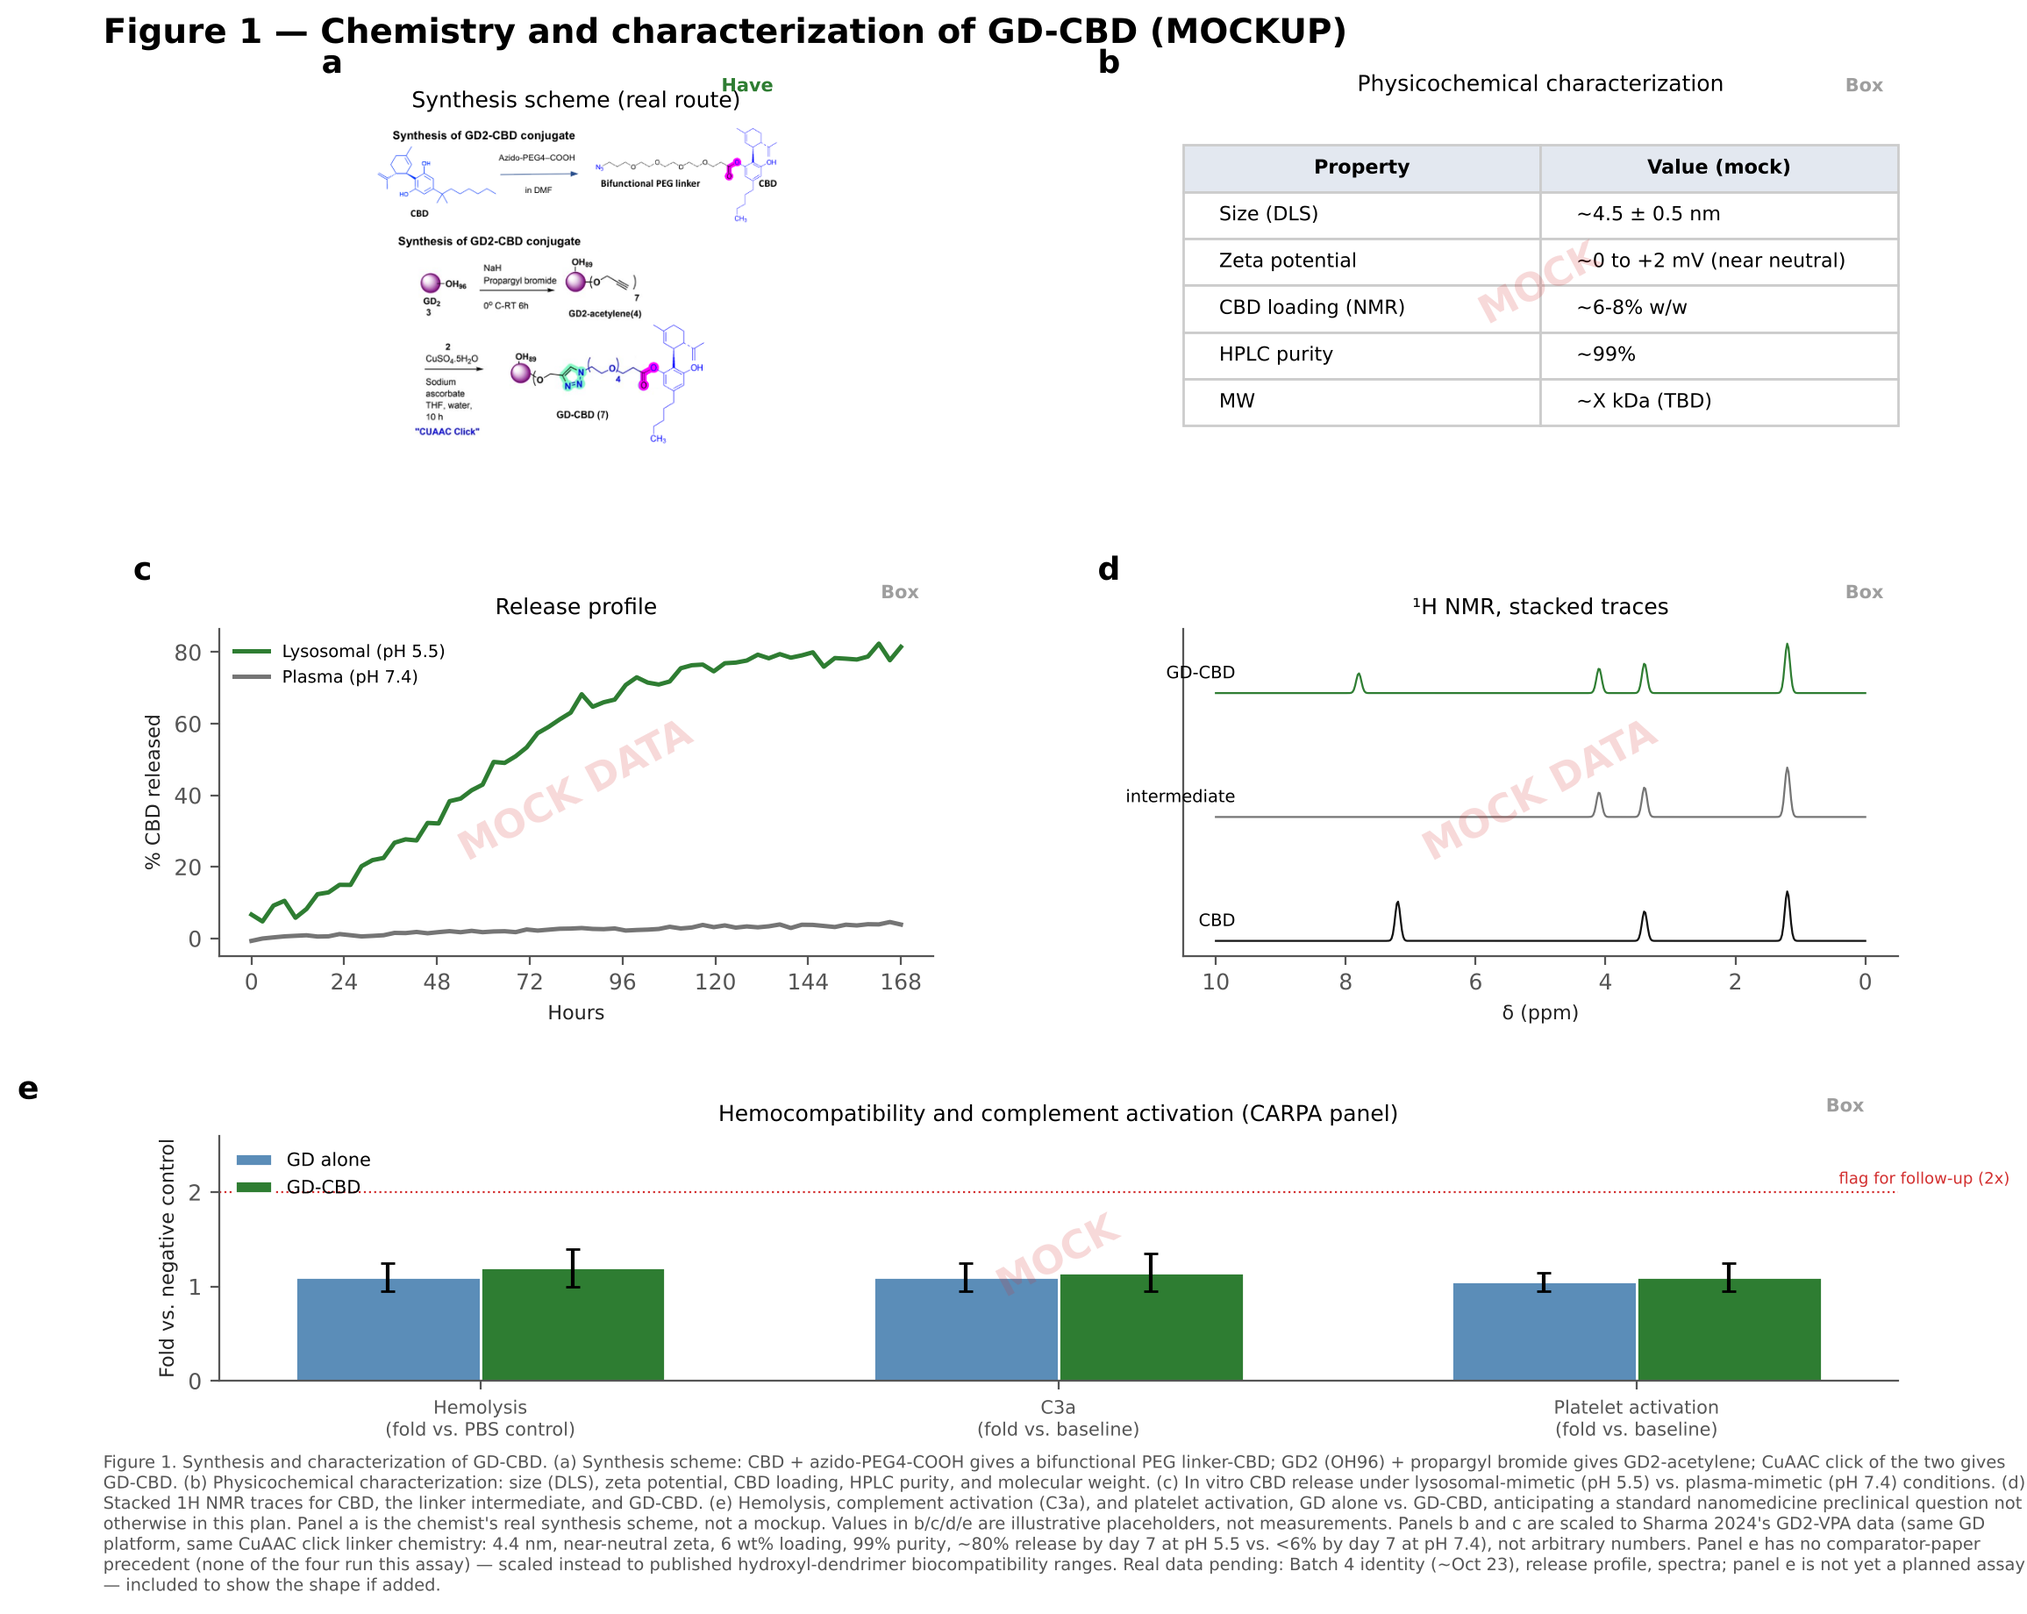
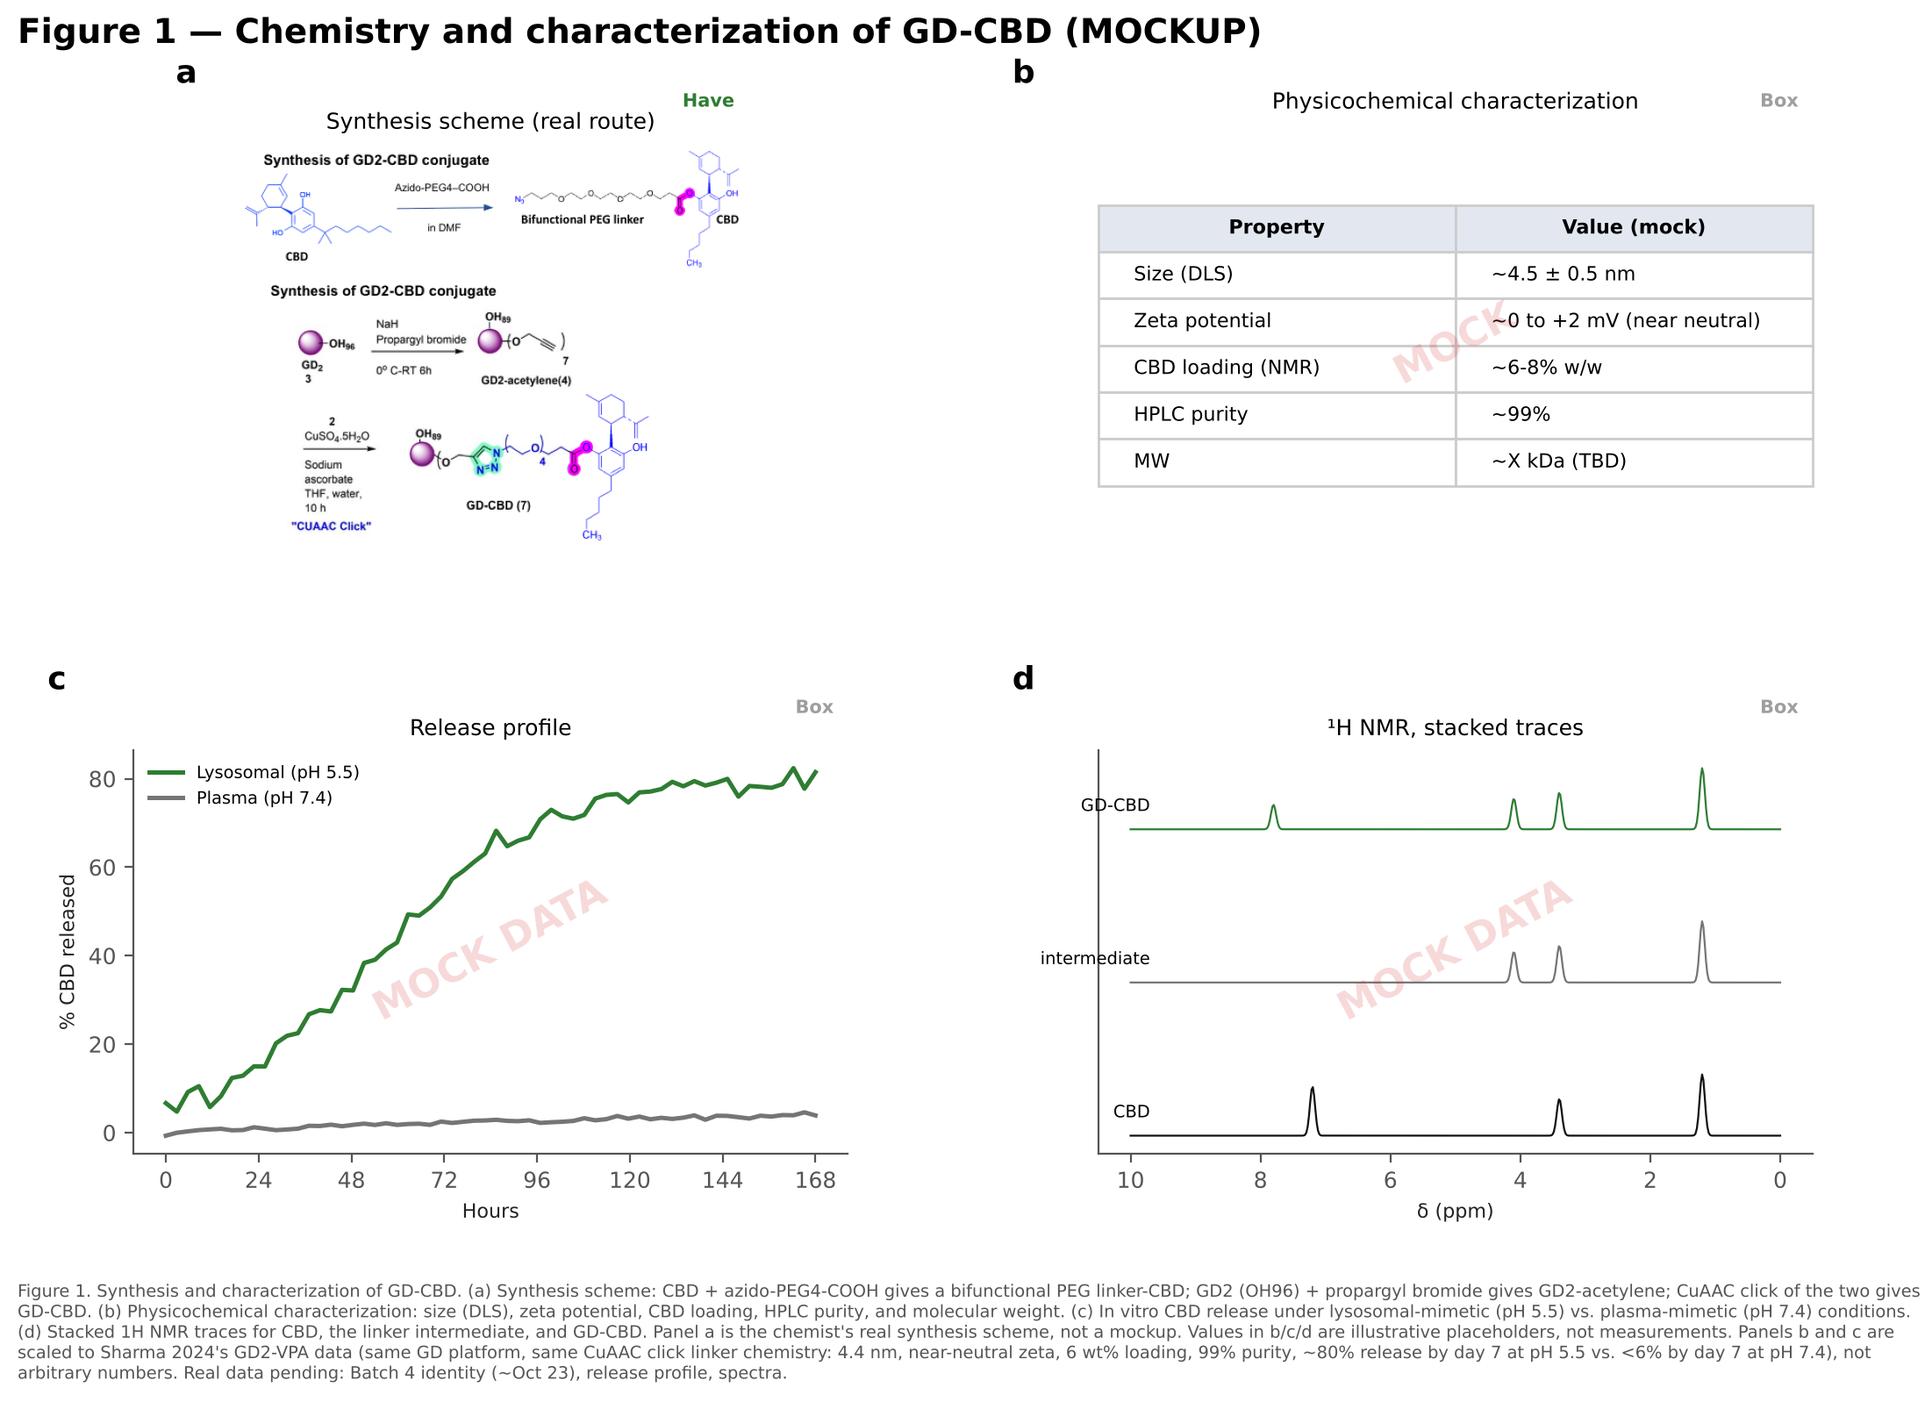
Cut Figure 5 and Figure 1e; rebuild Figure 6 around the real design
Three of the four figure decisions from this session's integration-plan
walkthrough:

- Figure 5 (cytokines across pain + epilepsy): cut. No counterpart in
  the 2026-11-02 PI session - cytokines came up as the in vitro efficacy
  readout (one MSD plate, one species), not a standalone cross-indication
  marker figure. build_fig5_mock.py kept as historical record (marked
  superseded, do not regenerate); fig5_box_layout.png removed.
- Figure 1e (hemocompatibility/CARPA): cut. Never discussed on 2026-11-02,
  this repo's own anticipatory addition, confirmed by the user rather
  than cut on inference. Figure 1 reflows to its original 4-panel 2x2.
- Figure 6 (biodistribution): rebuilt from scratch around the real
  settled design. Compound is GD-Cy5 (dendrimer alone), not Cy5-GD-CBD -
  the paper makes no CBD-localization claim. Material is existing
  flank-incision cryosections, not a new dosing study; no IVIS; no
  quantification ("just show like an image... that's good enough").
  Panel a (design) is real and status "Have"; panels b/c are schematic
  placeholders for real confocal images not yet provided to this repo -
  whether the n=3 sections and negative control are actually confirmed
  in hand is logged as an open item, not assumed.

Claude-Session: https://claude.ai/code/session_01QzWRSRZ9CNkGodGiMwM5wp

diff --git a/figures/mockups/build_fig_bio_mock.py b/figures/mockups/build_fig_bio_mock.py
@@ -1,76 +1,75 @@
-import numpy as np
+"""
+Figure 6 (biodistribution) — REBUILT 2026-11-03 per the 2026-11-02 PI working session.
+
+The old version (build around a new Cy5-GD-CBD dosing study: QC gate, n=3+2,
+ipsi/contra fluorescence quantification, a "quantified uptake" bar chart) no
+longer matches what was actually decided. Settled at the meeting instead:
+
+- Compound is GD-Cy5 (dendrimer alone, not the CBD conjugate) - "This is not
+  GD-CBD-Cy5." The paper is not making a CBD-localization claim, only a
+  dendrimer-localization one.
+- Material is EXISTING flank-incision cryosections already in hand, not a new
+  dosing study. "We're going to just show that and say it's getting into the
+  DRG neurons, DRG glia. That's all he looked at." No new animals, no IVIS
+  ("we're struggling with IVIS, let's take that out").
+- No quantification. "Don't try to quantify or do too much, just show like an
+  image and say it's more, it's less, that's good enough."
+- A no-dendrimer negative control is wanted alongside the positive images.
+- n=3 is the target ("we need to make sure we have N of 3 of the flank
+  incision model... for GD-Cy5"), but whether the sections/negative control
+  are actually confirmed in hand (vs. needing to be located) is an open
+  question - see Open items in the main plan doc. Panel a's design is real
+  and settled; panels b/c are schematic placeholders for real images that
+  have not been provided to this repo.
+"""
 import matplotlib.pyplot as plt
 import matplotlib.patches as mpatches
 from matplotlib.gridspec import GridSpec
-from mock_helpers import watermark, status_tag, panel_letter, empty_box, COLOR, RNG
+from mock_helpers import watermark, status_tag, panel_letter, empty_box
 
-fig = plt.figure(figsize=(11, 7))
-fig.suptitle("Figure 6 — Biodistribution of Cy5-GD-CBD (MOCKUP)", fontsize=13.5, fontweight="bold", x=0.02, ha="left", y=0.98)
-gs = GridSpec(2, 2, figure=fig, hspace=0.4, wspace=0.3, top=0.88, bottom=0.16, left=0.08, right=0.95)
+fig = plt.figure(figsize=(11, 5.2))
+fig.suptitle("Figure 6 — Biodistribution: GD-Cy5 localization, flank-incision model (MOCKUP)", fontsize=13, fontweight="bold", x=0.02, ha="left", y=0.98)
+gs = GridSpec(1, 3, figure=fig, wspace=0.35, top=0.72, bottom=0.22, left=0.05, right=0.97)
 
-# a: schematic - real design, Have
+# a: schematic - real design, settled 2026-11-02
 ax_a = fig.add_subplot(gs[0, 0])
-empty_box(ax_a, "Study design", "Injured + Cy5-GD-CBD (n=3, 24h) vs injured + vehicle (n=2)\nTissue fluorescence + confocal, paired ipsi/contra", "Have")
+empty_box(ax_a, "Study design", "Existing GD-Cy5 flank-incision cryosections (n=3) +\nno-dendrimer negative control. Localization only,\nno new dosing study, no IVIS.", "Have")
 panel_letter(ax_a, "a")
 
-# b: tissue fluorescence, ipsi vs contra - mock, paired lines
-# Ipsi/contra ratio set to ~6x, not the platform's own reported 8-14x (IV dendrimer vs.
-# contralateral brain tissue in a tumor model, same activated-cell targeting mechanism
-# this lab has described for GD-type dendrimers) - no direct precedent exists for local
-# IP injection near an incision, so this sits deliberately below that IV/CNS number
-# rather than importing it wholesale, while still well above the previous ~4x guess.
+# b: representative positive section - cannot fake a real confocal image, cartoon only
 ax_b = fig.add_subplot(gs[0, 1])
-n = 3
-ipsi = RNG.normal(1300, 200, n)
-contra = RNG.normal(220, 60, n)
-for i in range(n):
-    ax_b.plot([0, 1], [contra[i], ipsi[i]], color="#999999", linewidth=1, zorder=1)
-ax_b.scatter(np.zeros(n), contra, color="#757575", s=50, zorder=2, label="Contralateral")
-ax_b.scatter(np.ones(n), ipsi, color=COLOR["GD-CBD"], s=50, zorder=2, label="Ipsilateral")
-ax_b.set_xticks([0, 1]); ax_b.set_xticklabels(["Contra", "Ipsi"], fontsize=8)
-ax_b.set_xlim(-0.4, 1.4)
-ax_b.set_ylabel("Fluorescence (a.u./g tissue)", fontsize=8)
-watermark(ax_b)
-ax_b.set_title("Ex vivo tissue fluorescence, paired", fontsize=9)
+ax_b.set_xlim(0, 1); ax_b.set_ylim(0, 1); ax_b.axis("off")
+ax_b.add_patch(mpatches.Circle((0.3, 0.6), 0.15, color="#555555", alpha=0.3))
+ax_b.add_patch(mpatches.Circle((0.3, 0.6), 0.08, color="#2E7D32", alpha=0.6))
+ax_b.add_patch(mpatches.Circle((0.65, 0.35), 0.15, color="#555555", alpha=0.3))
+ax_b.text(0.5, 0.95, "Representative GD-Cy5+ (cartoon, not a real image)", fontsize=7.5, ha="center")
+ax_b.text(0.3, 0.6, "DRG cell\n+ Cy5", fontsize=6.5, ha="center", va="center")
+ax_b.text(0.65, 0.35, "cell\nonly", fontsize=6.5, ha="center", va="center")
+ax_b.text(0.5, 0.06, "DRG neurons and glia, representative, not quantified", fontsize=7, ha="center", color="#555555")
+watermark(ax_b, "MOCK")
 panel_letter(ax_b, "b")
 status_tag(ax_b, "Box")
 
-# c: confocal colocalization - can't fake microscopy, use a labeled cartoon
-ax_c = fig.add_subplot(gs[1, 0])
+# c: no-dendrimer negative control - same cartoon style, no signal
+ax_c = fig.add_subplot(gs[0, 2])
 ax_c.set_xlim(0, 1); ax_c.set_ylim(0, 1); ax_c.axis("off")
 ax_c.add_patch(mpatches.Circle((0.3, 0.6), 0.15, color="#555555", alpha=0.3))
-ax_c.add_patch(mpatches.Circle((0.3, 0.6), 0.08, color=COLOR["GD-CBD"], alpha=0.6))
 ax_c.add_patch(mpatches.Circle((0.65, 0.35), 0.15, color="#555555", alpha=0.3))
-ax_c.text(0.5, 0.92, "Confocal colocalization (cartoon, not real imaging)", fontsize=8, ha="center")
-ax_c.text(0.3, 0.6, "cell\n+ Cy5", fontsize=6.5, ha="center", va="center")
-ax_c.text(0.65, 0.35, "cell\nonly", fontsize=6.5, ha="center", va="center")
-ax_c.text(0.5, 0.08, "Wound / DRG / cord, with NeuN or Iba1 co-stain", fontsize=7.5, ha="center", color="#555555")
+ax_c.text(0.5, 0.95, "No-dendrimer negative control (cartoon)", fontsize=7.5, ha="center")
+ax_c.text(0.3, 0.6, "DRG cell", fontsize=6.5, ha="center", va="center")
+ax_c.text(0.65, 0.35, "DRG cell", fontsize=6.5, ha="center", va="center")
+ax_c.text(0.5, 0.06, "Same tissue type, no GD-Cy5 dosed", fontsize=7, ha="center", color="#555555")
 watermark(ax_c, "MOCK")
 panel_letter(ax_c, "c")
 status_tag(ax_c, "Box")
 
-# d: quantified uptake, mean fluorescence intensity, n cells stated - mock
-ax_d = fig.add_subplot(gs[1, 1])
-groups = ["Vehicle", "GD-CBD"]
-means = [12, 78]
-err = [4, 18]
-x = np.arange(2)
-ax_d.bar(x, means, yerr=err, color=["#111111", COLOR["GD-CBD"]], width=0.5, capsize=4, edgecolor="white")
-ax_d.set_xticks(x); ax_d.set_xticklabels(["Vehicle\n(n=40 cells)", "GD-CBD\n(n=55 cells)"], fontsize=7.5)
-ax_d.set_ylabel("Mean fluorescence intensity (a.u.)", fontsize=8)
-watermark(ax_d)
-ax_d.set_title("Quantified uptake — Sharma-style (n cells, not just animals)", fontsize=8.5)
-panel_letter(ax_d, "d")
-status_tag(ax_d, "Box")
-
-fig.text(0.02, 0.015,
-         "Figure 6. Tissue distribution of Cy5-GD-CBD after flank-incision injury. (a) Study design: injured animals received Cy5-GD-CBD (n=3) or vehicle (n=2), "
-         "tissue harvested at 24h. (b) Ex vivo fluorescence intensity, paired ipsilateral vs. contralateral tissue, per animal. (c) Representative confocal "
-         "colocalization of Cy5 signal with a cell marker in wound/DRG/cord tissue. (d) Quantified uptake, mean fluorescence intensity per cell, vehicle vs. "
-         "GD-CBD. Panel a reflects the real design and dosing. Panels b/c/d are illustrative placeholders pending the Cy5 dosing study (~Oct 30 QC, ~Nov 6 "
-         "material in hand); panel c is a schematic cartoon, not a micrograph. Panel b's ~6x ipsi/contra ratio is set below this platform's own reported "
-         "8-14x (IV dendrimer vs. contralateral brain, same activated-cell targeting mechanism) since no local-injection precedent exists for this route.",
+fig.text(0.02, 0.02,
+         "Figure 6. GD-Cy5 localization after flank-incision injury. (a) Study design: existing cryosections from prior GD-Cy5 dosing, n=3 target, plus a "
+         "no-dendrimer negative control. (b) Representative positive section, DRG neurons and glia. (c) Representative no-dendrimer negative control. "
+         "Panel a reflects the real, settled design (2026-11-02 PI session): existing material, not a new Cy5-GD-CBD dosing study; no IVIS; no quantification "
+         "('just show like an image... that's good enough'). Panels b/c are schematic cartoons standing in for real confocal images not yet provided to this "
+         "repo - whether the n=3 sections and negative control are confirmed in hand is an open item (see main plan, Open items).",
          fontsize=7, color="#555555", wrap=True)
 plt.savefig("/home/user/gd-cbd/figures/mockups/fig6_biodistribution.png", dpi=200, bbox_inches="tight")
 plt.close()
-print("Saved fig6_biodistribution.png")
+print("Saved fig6_biodistribution.png (3 panels: a-c)")

diff --git a/figures/mockups/build_fig1_mock.py b/figures/mockups/build_fig1_mock.py
@@ -5,9 +5,9 @@ from matplotlib.gridspec import GridSpec
 from matplotlib.patches import FancyArrow, FancyBboxPatch
 from mock_helpers import watermark, status_tag, panel_letter, RNG
 
-fig = plt.figure(figsize=(11, 9.2))
-fig.suptitle("Figure 1 — Chemistry and characterization of GD-CBD (MOCKUP)", fontsize=14, fontweight="bold", x=0.02, ha="left", y=0.985)
-gs = GridSpec(3, 2, figure=fig, hspace=0.6, wspace=0.35, top=0.92, bottom=0.14, left=0.08, right=0.95, height_ratios=[1, 1, 0.75])
+fig = plt.figure(figsize=(11, 8))
+fig.suptitle("Figure 1 — Chemistry and characterization of GD-CBD (MOCKUP)", fontsize=14, fontweight="bold", x=0.02, ha="left", y=0.98)
+gs = GridSpec(2, 2, figure=fig, hspace=0.5, wspace=0.35, top=0.89, bottom=0.17, left=0.08, right=0.95)
 
 # 1a: synthesis scheme - REAL scheme (panel c of the chemist's own synthesis figure,
 # cropped from the source image; the ketamine-conjugate panel (b) in that source figure
@@ -78,48 +78,20 @@ ax_d.set_title("¹H NMR, stacked traces", fontsize=9)
 panel_letter(ax_d, "d")
 status_tag(ax_d, "Box")
 
-# 1e: hemocompatibility / complement activation - mock. No comparator paper runs this
-# assay (checked: none of the four report hemolysis/complement/CARPA data), so these
-# values are NOT calibrated to a specific paper - they're set in line with the published
-# hydroxyl-PAMAM/glucose-dendrimer biocompatibility literature generally (hydroxyl-terminated
-# dendrimers are consistently reported as non-hemolytic, well below the <5% hemolysis /
-# <2-fold complement-activation thresholds used to call a nanomaterial "safe" in that
-# literature) - unlike amine-terminated dendrimers, which are not. All three assays plotted
-# as fold-vs-baseline so they share one y-axis; dotted line marks a common "flag for
-# follow-up" convention (2x baseline), not a true normal-range ceiling like panel 4g's.
-ax_e = fig.add_subplot(gs[2, :])
-assays = ["Hemolysis\n(fold vs. PBS control)", "C3a\n(fold vs. baseline)", "Platelet activation\n(fold vs. baseline)"]
-gd_alone = [1.1, 1.1, 1.05]
-gd_cbd = [1.2, 1.15, 1.1]
-gd_alone_err = [0.15, 0.15, 0.1]
-gd_cbd_err = [0.2, 0.2, 0.15]
-xpos = np.arange(3)
-w = 0.32
-ax_e.axhline(2.0, color="#D32F2F", linewidth=0.8, linestyle=":")
-ax_e.text(2.35, 2.05, "flag for follow-up (2x)", fontsize=6.5, color="#D32F2F", va="bottom")
-ax_e.bar(xpos - w / 2, gd_alone, width=w, yerr=gd_alone_err, color="#5B8DB8", capsize=3, label="GD alone", edgecolor="white")
-ax_e.bar(xpos + w / 2, gd_cbd, width=w, yerr=gd_cbd_err, color="#2E7D32", capsize=3, label="GD-CBD", edgecolor="white")
-ax_e.set_xticks(xpos); ax_e.set_xticklabels(assays, fontsize=7.5)
-ax_e.set_ylim(0, 2.6)
-ax_e.set_ylabel("Fold vs. negative control", fontsize=8)
-ax_e.legend(fontsize=7.5, frameon=False, loc="upper left")
-watermark(ax_e, "MOCK")
-ax_e.set_title("Hemocompatibility and complement activation (CARPA panel)", fontsize=9)
-panel_letter(ax_e, "e")
-status_tag(ax_e, "Box")
+# Panel 1e (hemocompatibility/CARPA) cut 2026-11-03: never discussed at the 2026-11-02
+# PI session, this repo's own anticipatory addition, and it sat oddly next to a paper
+# that session settled firmly against making any safety claims for. Not cut on
+# inference - the user confirmed the cut after an explicit ask.
 
 fig.text(0.02, 0.01,
          "Figure 1. Synthesis and characterization of GD-CBD. (a) Synthesis scheme: CBD + azido-PEG4-COOH gives a bifunctional PEG linker-CBD; GD2 (OH96) + propargyl "
          "bromide gives GD2-acetylene; CuAAC click of the two gives GD-CBD. (b) Physicochemical characterization: size (DLS), zeta potential, CBD loading, HPLC purity, and "
          "molecular weight. (c) In vitro CBD release under lysosomal-mimetic (pH 5.5) vs. plasma-mimetic (pH 7.4) conditions. (d) Stacked 1H NMR traces for CBD, the linker "
-         "intermediate, and GD-CBD. (e) Hemolysis, complement activation (C3a), and platelet activation, GD alone vs. GD-CBD, anticipating a standard nanomedicine preclinical "
-         "question not otherwise in this plan. "
-         "Panel a is the chemist's real synthesis scheme, not a mockup. Values in b/c/d/e are illustrative placeholders, not measurements. Panels b and c are scaled to "
+         "intermediate, and GD-CBD. "
+         "Panel a is the chemist's real synthesis scheme, not a mockup. Values in b/c/d are illustrative placeholders, not measurements. Panels b and c are scaled to "
          "Sharma 2024's GD2-VPA data (same GD platform, same CuAAC click linker chemistry: 4.4 nm, near-neutral zeta, 6 wt% loading, 99% purity, ~80% release by day 7 at "
-         "pH 5.5 vs. <6% by day 7 at pH 7.4), not arbitrary numbers. Panel e has no comparator-paper precedent (none of the four run this assay) — scaled instead to "
-         "published hydroxyl-dendrimer biocompatibility ranges. Real data pending: Batch 4 identity (~Oct 23), release profile, spectra; panel e is not yet a planned assay "
-         "— included to show the shape if added.",
+         "pH 5.5 vs. <6% by day 7 at pH 7.4), not arbitrary numbers. Real data pending: Batch 4 identity (~Oct 23), release profile, spectra.",
          fontsize=7, color="#555555", wrap=True)
 plt.savefig("/home/user/gd-cbd/figures/mockups/fig1_box_layout.png", dpi=200, bbox_inches="tight")
 plt.close()
-print("Saved fig1_box_layout.png (5 panels: a-e)")
+print("Saved fig1_box_layout.png (4 panels: a-d)")

diff --git a/figures/mockups/build_fig5_mock.py b/figures/mockups/build_fig5_mock.py
@@ -1,3 +1,8 @@
+# SUPERSEDED 2026-11-03: cut per the 2026-11-02 PI working session. A standalone
+# cross-indication cytokine figure has no counterpart in what was actually discussed -
+# cytokines came up as the in vitro efficacy readout (one MSD plate, one species) inside
+# the in vitro figure, not a dedicated marker figure. Kept here as historical record only;
+# fig5_box_layout.png has been removed from the active figure set. Do not regenerate.
 import numpy as np
 import matplotlib.pyplot as plt
 from matplotlib.gridspec import GridSpec
